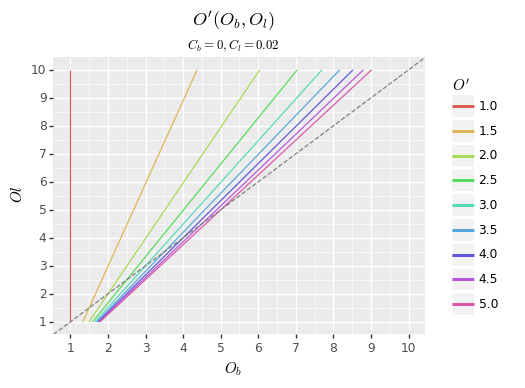
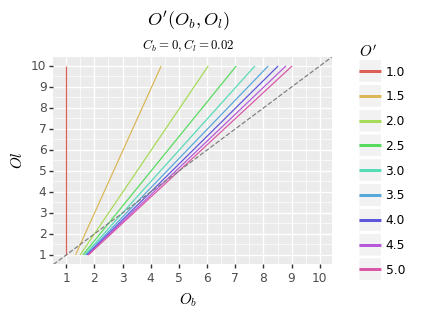
Trying smaller again.

diff --git a/images/matched-betting/plots.py b/images/matched-betting/plots.py
@@ -117,7 +117,7 @@ def main():
      + gg.geom_abline(slope=1, intercept=0,
                       linetype='dashed', color='grey')
      + gg.geom_line()
-    ).save(savepath('Pf_Ob_Ol.png'), width=4.8, height=3.6)
+    ).save(savepath('Pf_Ob_Ol.png'), width=3.6, height=2.7)
 
     df = concat_map(Pf_Ob_σ, 'P_f', np.linspace(0.1, 1, 10))
     (gg.ggplot(df, gg.aes('O_b', 'σ', group='P_f', color='P_f'))
@@ -126,7 +126,7 @@ def main():
      + labs('O_b', 'σ')
      + limits((1, 10), (0, 5))
      + gg.geom_line()
-    ).save(savepath('Pf_Ob_σ.png'), width=4.8, height=3.6)
+    ).save(savepath('Pf_Ob_σ.png'), width=3.6, height=2.7)
 
     df = concat_map(Pq_Ob_Ol, 'P_q', np.linspace(-0.9, 0, 10))
     (gg.ggplot(df, gg.aes('O_b', 'O_l', group='P_q', color='P_q'))
@@ -137,7 +137,7 @@ def main():
      + gg.geom_abline(slope=1, intercept=0,
                       linetype='dashed', color='grey')
      + gg.geom_line()
-    ).save(savepath('Pq_Ob_Ol.png'), width=4.8, height=3.6)
+    ).save(savepath('Pq_Ob_Ol.png'), width=3.6, height=2.7)
 
     df = concat_map(Pq_Ob_σ, 'P_q', np.linspace(-0.9, 0, 10))
     (gg.ggplot(df, gg.aes('O_b', 'σ', group='P_q', color='P_q'))
@@ -146,7 +146,7 @@ def main():
      + labs('O_b', 'σ')
      + limits((1, 10), (0, 5))
      + gg.geom_line()
-    ).save(savepath('Pq_Ob_σ.png'), width=4.8, height=3.6)
+    ).save(savepath('Pq_Ob_σ.png'), width=3.6, height=2.7)
 
     df = concat_map(Opr_Ob_Ol, 'Opr', np.linspace(1, 5, 9))
     (gg.ggplot(df, gg.aes('O_b', 'O_l', group='Opr', color='Opr'))
@@ -157,7 +157,7 @@ def main():
      + gg.geom_line()
      + gg.geom_abline(slope=1, intercept=0,
                       linetype='dashed', color='grey')
-    ).save(savepath('Opr_Ob_Ol.png'), width=4.8, height=3.6)
+    ).save(savepath('Opr_Ob_Ol.png'), width=3.6, height=2.7)
 
     df = concat_map(Opr_Ob_σ, 'Opr', np.linspace(1, 5, 9))
     (gg.ggplot(df, gg.aes('O_b', 'σ', group='Opr', color='Opr'))
@@ -166,7 +166,7 @@ def main():
      + labs('O_b', 'σ')
      + limits((1, 10), (0, 5))
      + gg.geom_line()
-    ).save(savepath('Opr_Ob_σ.png'), width=4.8, height=3.6)
+    ).save(savepath('Opr_Ob_σ.png'), width=3.6, height=2.7)
 
     df = (pd.DataFrame({'Opr': np.linspace(1, 20, 91)})
             .assign(Pf=lambda x: Opr_Pf(x.Opr)))
@@ -178,7 +178,7 @@ def main():
               ybreaks=np.linspace(0, 1, 11))
      + gg.geom_line()
      + gg.geom_hline(yintercept=C, linetype='dashed', color='grey')
-    ).save(savepath('Pf_Opr.png'), width=4.8, height=3.6)
+    ).save(savepath('Pf_Opr.png'), width=3.6, height=2.7)
 
     df = concat_map(σpr_Ob_σ, 'σpr', np.linspace(0, 5, 11))
     (gg.ggplot(df, gg.aes('O_b', 'σ', group='σpr', color='σpr'))
@@ -187,7 +187,7 @@ def main():
      + labs('O_b', 'σ')
      + limits((1, 10), (0, 5))
      + gg.geom_line()
-    ).save(savepath('σpr_Ob_σ.png'), width=4.8, height=3.6)
+    ).save(savepath('σpr_Ob_σ.png'), width=3.6, height=2.7)
 
     df = (pd.DataFrame({'σpr': np.linspace(0, 20, 101)})
             .assign(Pq=lambda x: σpr_Pq(x.σpr)))
@@ -198,7 +198,7 @@ def main():
               xbreaks=np.linspace(0, 20, 11),
               ybreaks=np.linspace(-1, 0, 11))
      + gg.geom_line()
-    ).save(savepath('Pq_σpr.png'), width=4.8, height=3.6)
+    ).save(savepath('Pq_σpr.png'), width=3.6, height=2.7)
 
 if __name__ == '__main__':
     main()
